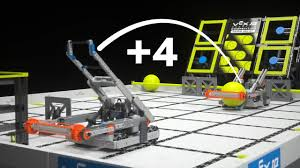
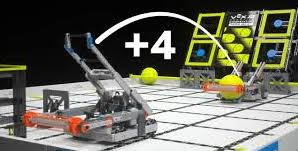
Updated layout & added nav button

diff --git a/index.html b/index.html
@@ -6,7 +6,7 @@
     <title>Flipped Robotics Mini-Competition</title>
     <style>
         body, html {
-            height: 100%;
+            height: 100vh;
             margin: 0;
             font-family: Arial, sans-serif;
             color: #333;
@@ -14,49 +14,117 @@
         }
         .container {
             display: flex;
-            height: 100%;
+            height: calc(100vh - 100px);
             max-width: 1200px;
-            margin: 0 auto;
-            padding: 20px;
+            margin: 40px auto 50px auto;
+            padding: 15px;
             box-shadow: 0 0 10px rgba(0,0,0,0.1);
             background-color: white;
         }
         .column {
             flex: 1;
-            padding: 20px;
+            padding: 15px;
             overflow-y: auto;
+            max-height: calc(100vh - 120px);
         }
-        h1, h2 {
+        h1 {
             color: #0066cc;
             margin-top: 0;
+            font-size: 1.8em;
+            margin-bottom: 10px;
+        }
+        h2 {
+            color: #0066cc;
+            margin-top: 0;
+            font-size: 1.4em;
+            margin-bottom: 8px;
+        }
+        h3 {
+            font-size: 1.1em;
+            margin: 8px 0;
         }
         .highlight {
             background-color: #e6f2ff;
-            padding: 15px;
+            padding: 10px;
             border-radius: 5px;
-            margin-bottom: 20px;
+            margin-bottom: 15px;
             border-left: 5px solid #0066cc;
         }
         img {
             max-width: 100%;
             height: auto;
             border-radius: 5px;
-            margin-bottom: 20px;
+            margin-bottom: 15px;
             box-shadow: 0 0 5px rgba(0,0,0,0.2);
         }
         ul {
             padding-left: 20px;
+            margin: 8px 0;
+        }
+        li {
+            margin-bottom: 4px;
         }
         .logo {
-            width: 450px;
-            height: 250px;
+            width: 300px;
+            height: 150px;
             object-fit: cover;
             object-position: left;
-            margin-bottom: 20px;
+            margin-bottom: 15px;
+        }
+        .field-image {
+            max-width: 100%;
+            height: 320px;
+            object-fit: contain;
+            margin: 10px 0;
+        }
+        .nav-bar {
+            background-color: #0066cc;
+            color: white;
+            text-align: center;
+            padding: 8px;
+            position: fixed;
+            top: 0;
+            width: 100%;
+            z-index: 100;
+        }
+
+        .bottom-nav {
+            position: fixed;
+            bottom: 0;
+            width: 100%;
+            background-color: #f4f4f4;
+            padding: 10px;
+            text-align: center;
+        }
+
+        .switch-button {
+            background-color: #0066cc;
+            color: white;
+            border: none;
+            padding: 8px 16px;
+            border-radius: 4px;
+            cursor: pointer;
+            font-size: 1em;
+        }
+
+        .switch-button:hover {
+            background-color: #0052a3;
+        }
+
+        /* Adjust container to account for nav bars */
+        .container {
+            margin-top: 40px;
+            margin-bottom: 50px;
+        }
+        p {
+            margin: 8px 0;
         }
     </style>
 </head>
 <body>
+    <div class="nav-bar">
+        VEX V5 Competition Rules
+    </div>
 <div class="container">
     <div class="column">
         <img src="vex-logo.png" alt="VEX Robotics Logo" class="logo">
@@ -72,18 +140,13 @@
             <li>Rings in Positive Corner: 2 points each</li>
             <li>Rings in Negative Corner: -1 point each</li>
         </ul>
-        <h3>Special Rules:</h3>
-        <ul>
-            <li>Removing opponent's rings is encouraged!</li>
-            <li>First to score gets an extra point per ring.</li>
-        </ul>
         <h2>Prize</h2>
         <ul>
             <li>Custom-made "Competition Champion" plaque</li>
         </ul>
     </div>
     <div class="column">
-        <img src="image3.png" alt="VEX Robotics Competition Field">
+        <img src="image3.png" alt="VEX Robotics Competition Field" class="field-image">
         <div class="highlight">
             <p>Gear up, power on, and may the best bot win! Show your skills and claim victory!</p>
         </div>
@@ -94,6 +157,11 @@
             <li>Participating makes you all winners!</li>
         </ul>
     </div>
+</div>
+<div class="bottom-nav">
+    <button class="switch-button" onclick="window.location.href='index-iq.html'">
+        Switch to VEX IQ Rules
+    </button>
 </div>
 </body>
 </html>

diff --git a/index-iq.html b/index-iq.html
@@ -6,7 +6,7 @@
     <title>Flipped Robotics Mini-Competition</title>
     <style>
         body, html {
-            height: 100%;
+            height: 100vh;
             margin: 0;
             font-family: Arial, sans-serif;
             color: #333;
@@ -14,50 +14,119 @@
         }
         .container {
             display: flex;
-            height: 100%;
+            height: calc(100vh - 100px); /* Account for nav bars */
             max-width: 1200px;
-            margin: 0 auto;
-            padding: 20px;
+            margin: 40px auto 50px auto;
+            padding: 15px;
             box-shadow: 0 0 10px rgba(0,0,0,0.1);
             background-color: white;
         }
+
         .column {
             flex: 1;
-            padding: 20px;
-            overflow-y: auto;
+            padding: 15px;
+            overflow-y: auto; /* Allow scrolling if content is too long */
+            max-height: calc(100vh - 120px);
         }
-        h1, h2 {
+        h1 {
             color: #0066cc;
             margin-top: 0;
+            font-size: 1.8em;
+            margin-bottom: 10px;
+        }
+        h2 {
+            color: #0066cc;
+            margin-top: 0;
+            font-size: 1.4em;
+            margin-bottom: 8px;
+        }
+        h3 {
+            font-size: 1.1em;
+            margin: 8px 0;
         }
         .highlight {
             background-color: #e6f2ff;
-            padding: 15px;
+            padding: 10px;
             border-radius: 5px;
-            margin-bottom: 20px;
+            margin-bottom: 15px;
             border-left: 5px solid #0066cc;
         }
         img {
             max-width: 100%;
             height: auto;
             border-radius: 5px;
-            margin-bottom: 20px;
+            margin-bottom: 15px;
             box-shadow: 0 0 5px rgba(0,0,0,0.2);
         }
         ul {
             padding-left: 20px;
+            margin: 8px 0;
+        }
+        li {
+            margin-bottom: 4px;
         }
         .logo {
-            width: 450px;
-            height: 250px;
+            width: 300px;
+            height: 150px;
             object-fit: cover;
             object-position: left;
-            margin-bottom: 20px;
+            margin-bottom: 15px;
+        }
+        .field-image {
+            max-width: 100%;
+            height: 300px;
+            object-fit: contain;
+            margin: 10px 0;
+        }
+        .nav-bar {
+            background-color: #0066cc;
+            color: white;
+            text-align: center;
+            padding: 8px;
+            position: fixed;
+            top: 0;
+            width: 100%;
+            z-index: 100;
+        }
+
+        .bottom-nav {
+            position: fixed;
+            bottom: 0;
+            width: 100%;
+            background-color: #f4f4f4;
+            padding: 10px;
+            text-align: center;
+        }
+
+        .switch-button {
+            background-color: #0066cc;
+            color: white;
+            border: none;
+            padding: 8px 16px;
+            border-radius: 4px;
+            cursor: pointer;
+            font-size: 1em;
+        }
+
+        .switch-button:hover {
+            background-color: #0052a3;
+        }
+
+        /* Adjust container to account for nav bars */
+        .container {
+            margin-top: 40px;
+            margin-bottom: 50px;
+        }
+        p {
+            margin: 8px 0;
         }
     </style>
-</head>
-<body>
-<div class="container">
+    </head>
+    <body>
+    <div class="nav-bar">
+        VEX IQ Competition Rules
+    </div>
+    <div class="container">
     <div class="column">
         <img src="vex-logo.png" alt="VEX Robotics Logo" class="logo">
         <h1>Flipped Robotics Mini-Competition</h1>
@@ -80,7 +149,7 @@
         </ul>
     </div>
     <div class="column">
-        <img src="image4.jpeg" alt="VEX Robotics Competition Field">
+        <img src="image4.jpeg" alt="VEX Robotics Competition Field" class="field-image">
         <div class="highlight">
             <p>Gear up, power on, and may the best bot win! Show your skills and claim victory!</p>
         </div>
@@ -88,9 +157,14 @@
         <ul>
             <li>Every challenge is a learning opportunity</li>
             <li>Teamwork makes the dream work</li>
-            <li>Participating makes you all winners!</li>
+                <li>Participating makes you all winners!</li>
         </ul>
     </div>
+</div>
+<div class="bottom-nav">
+    <button class="switch-button" onclick="window.location.href='index.html'">
+        Switch to VEX v5 Rules
+    </button>
 </div>
 </body>
 </html>
